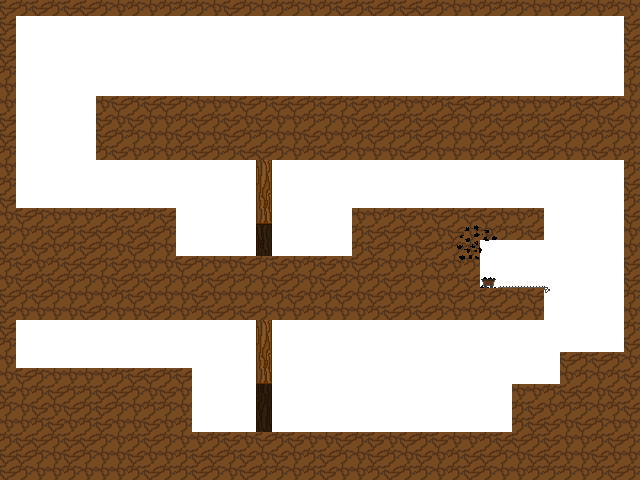
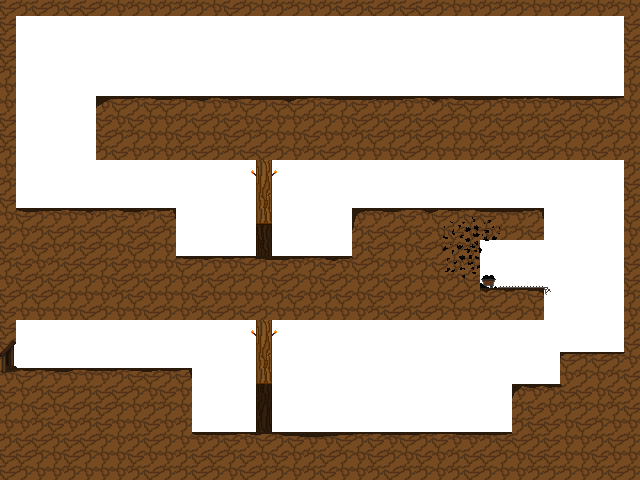
cosas del lvl3

diff --git a/src/com/team/game/GameManager.java b/src/com/team/game/GameManager.java
@@ -16,7 +16,6 @@ import com.team.engine.gfx.Light;
 import com.team.game.objects.Diana;
 import com.team.game.objects.Flag;
 import com.team.game.objects.GameObject;
-import com.team.game.objects.Platform;
 import com.team.game.objects.Player;
 import com.team.game.objects.Saw;
 import com.team.game.objects.Spikes;
@@ -139,14 +138,14 @@ public class GameManager extends AbstractGame {
 			
 			case 3:
 				gc.getRenderer().setAmbientColor(0xff232323);
-				levelImage = new Image("/Niveles/Nivel3/level0001.png");
+				levelImage = new Image("/Niveles/Nivel3/level0012.png");
 				background = new Image("/Niveles/Nivel3/background.png");
 				objects.add(new Player(6, 22));
 				posPlayerX = 6;
 				posPlayerY = 22;
 				objects.add(new Spikes(12, 20, 26, false));
 				objects.add(new Spikes(10, 23, 5, false));
-				objects.add(new Spikes(10, 23, 1, true));//hasta 25 de largo es el numero magico creo, llegue una vez
+				objects.add(new Spikes(10, 23, 1, true));
 				objects.add(new Diana(35, 4,0));
 				objects.add(new Saw(20, 13));
 				objects.add(new Saw(17, 13));
@@ -227,7 +226,8 @@ public class GameManager extends AbstractGame {
 				renderer.drawImage(levelImage, 0, 0);
 				if(playerCounter > 0)
 					renderer.drawLight(light, (int) this.getObject("player").getPosX(), (int) this.getObject("player").getPosY());
-				renderer.drawLight(light, 15*TILE_SIZE, 20*TILE_SIZE);
+				renderer.drawLight(light, 16*TILE_SIZE, 20*TILE_SIZE);
+				renderer.drawLight(light, 16*TILE_SIZE, 10*TILE_SIZE);
 				break;
 			default:
 				break;
